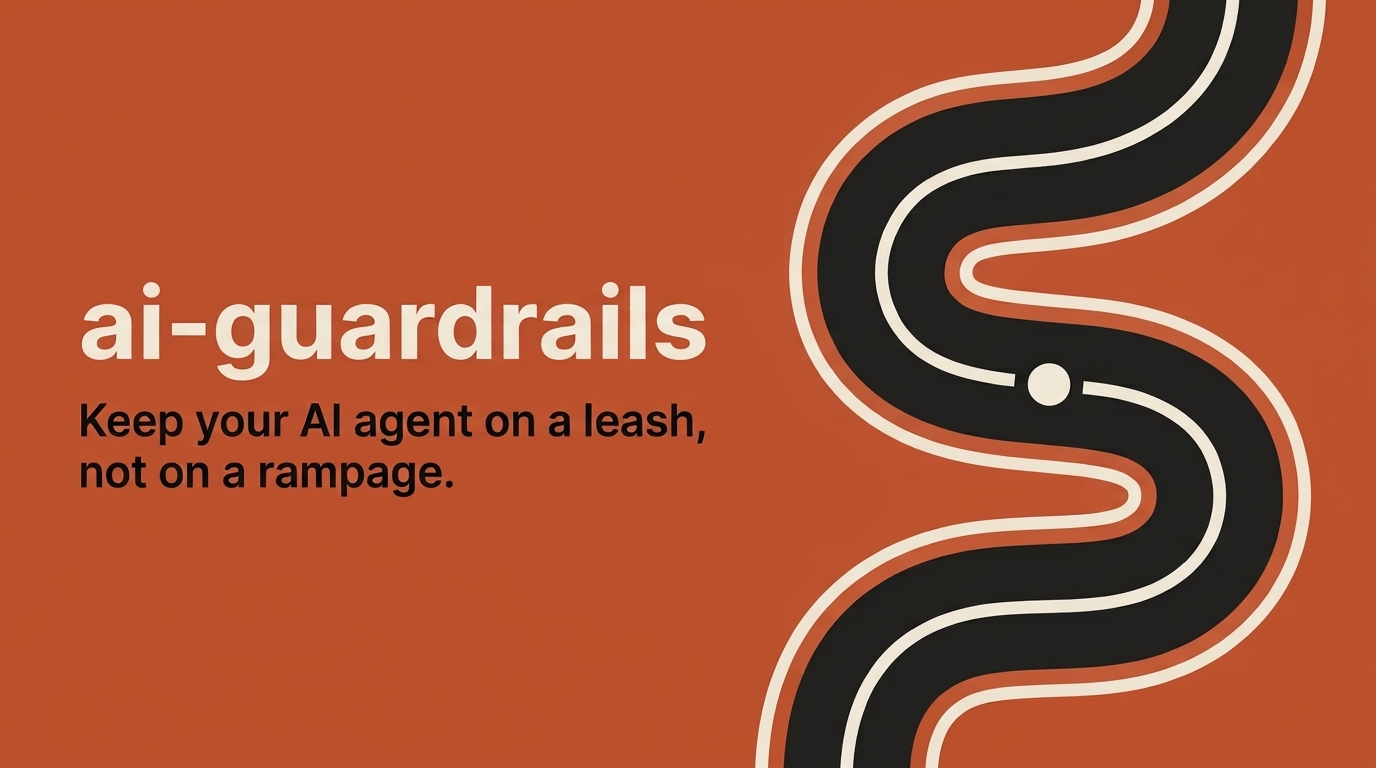
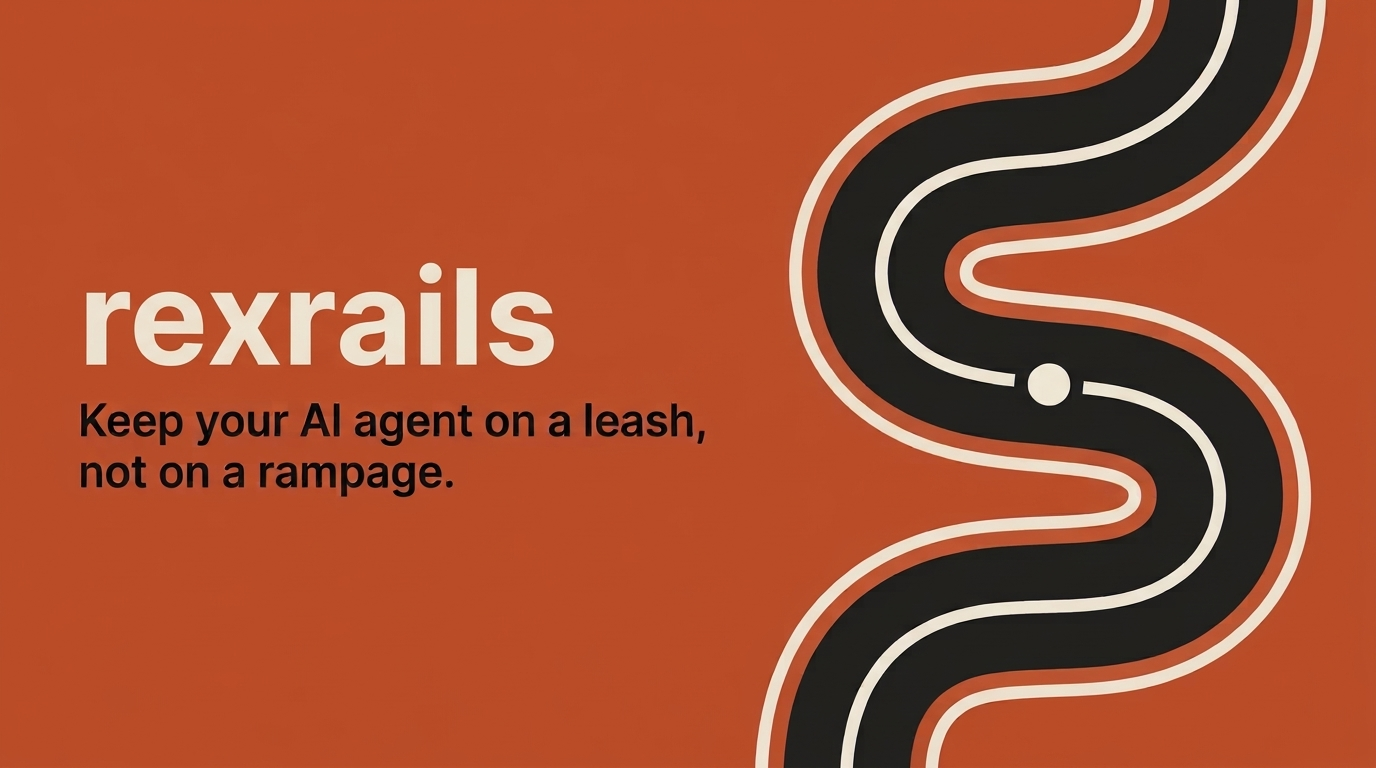
feat: rename plugin to rexrails
Unique name instead of the generic ai-guardrails. New banner with the new title.

Changed region(s): [[0.0625, 0.3438, 0.5312, 0.5]]

diff --git a/README.md b/README.md
@@ -1,8 +1,8 @@
 <div align="center">
 
-![ai-guardrails: keep your AI agent on a leash, not on a rampage](assets/banner.jpg)
+![rexrails: keep your AI agent on a leash, not on a rampage](assets/banner.jpg)
 
-# 🛡 ai-guardrails
+# 🛡 rexrails
 
 **Keep Claude Code on a leash, not on a rampage.**
 
@@ -15,7 +15,7 @@ make it ask with options instead of guessing, and warn you before a session burn
 [![platform](https://img.shields.io/badge/platform-windows%20%7C%20macos%20%7C%20linux-lightgrey)](#-install)
 
 ```text
-/plugin install ai-guardrails --marketplace bagusrexy27/ai-guardrails
+/plugin install rexrails --marketplace bagusrexy27/rexrails
 ```
 
 </div>
@@ -30,7 +30,7 @@ AI coding agents changed what is expensive. Writing code used to be the slow par
 - **Focus.** When building is cheap, there is always one more feature to add. The code is cheap to write, but every line still has to be maintained.
 - **Tokens.** Every message re-sends the whole conversation. A long session makes even a one-line question expensive, and on a subscription it eats your usage limit.
 
-ai-guardrails was born from one real working day on a Go backend refactor with Claude Code. Every rule in it answers something that actually went wrong that day. It turns those lessons into a few rules, two hooks, one skill, and an optional statusline segment.
+rexrails was born from one real working day on a Go backend refactor with Claude Code. Every rule in it answers something that actually went wrong that day. It turns those lessons into a few rules, two hooks, one skill, and an optional statusline segment.
 
 ## 🎯 The problems it solves
 
@@ -40,7 +40,7 @@ ai-guardrails was born from one real working day on a Go backend refactor with C
 
 **Real case.** The request was *"put it in git so I can install it on my other laptop."* The agent created a GitHub repository, committed, and pushed, all without being asked. Pushing and creating a repo are hard to undo and visible to others.
 
-**What ai-guardrails does.** *Ask before acting.* Reading and searching are free. Anything that changes something needs an explicit request for that exact action. "Put it in git" is not permission to push. Permission does not carry over to the next action. Real bugs are the one exception: they get fixed right away.
+**What rexrails does.** *Ask before acting.* Reading and searching are free. Anything that changes something needs an explicit request for that exact action. "Put it in git" is not permission to push. Permission does not carry over to the next action. Real bugs are the one exception: they get fixed right away.
 
 ### 2. 🎲 The agent decides things that are yours to decide
 
@@ -48,7 +48,7 @@ ai-guardrails was born from one real working day on a Go backend refactor with C
 
 **Real case.** While packaging this very plugin for publishing, the agent picked the MIT license on its own. It was a reasonable choice, but it was not the agent's choice to make.
 
-**What ai-guardrails does.** *Decisions as options.* Every decision comes as a question with 2-4 concrete options, the recommended one first. You click instead of typing, and you can still write your own answer. Each question stands on its own, so you never have to explain which question your answer belongs to.
+**What rexrails does.** *Decisions as options.* Every decision comes as a question with 2-4 concrete options, the recommended one first. You click instead of typing, and you can still write your own answer. Each question stands on its own, so you never have to explain which question your answer belongs to.
 
 ### 3. 🧱 Scope creep, because building is cheap
 
@@ -56,7 +56,7 @@ ai-guardrails was born from one real working day on a Go backend refactor with C
 
 **Real case.** A single request in a project management app bundled nine UI changes at once: cards, filters, popups, and more. None had been checked for real impact.
 
-**What ai-guardrails does.** *Feature gate.* Before writing code for a new feature, the agent answers four questions (real problem, significance, urgency, total complexity including maintenance) and places each item in a tier from A (do now) to D (park or drop). It shows the result and waits for your call. Big lists get split into small batches. New ideas mid-work go to a park list instead of into the code.
+**What rexrails does.** *Feature gate.* Before writing code for a new feature, the agent answers four questions (real problem, significance, urgency, total complexity including maintenance) and places each item in a tier from A (do now) to D (park or drop). It shows the result and waits for your call. Big lists get split into small batches. New ideas mid-work go to a park list instead of into the code.
 
 ### 4. 🔥 Long sessions burn tokens
 
@@ -64,7 +64,7 @@ ai-guardrails was born from one real working day on a Go backend refactor with C
 
 **Real case.** The session that produced this plugin grew past 230,000 tokens. Almost all of it was chat history, not code.
 
-**What ai-guardrails does.** The optional statusline shows the context size and your 5-hour quota, and turns yellow, then red, with concrete advice. The agent also warns you once about habits that waste tokens, like pasting whole logs or switching topics in a long session. `/save-decisions` writes what was decided to your docs, so `/clear` is safe.
+**What rexrails does.** The optional statusline shows the context size and your 5-hour quota, and turns yellow, then red, with concrete advice. The agent also warns you once about habits that waste tokens, like pasting whole logs or switching topics in a long session. `/save-decisions` writes what was decided to your docs, so `/clear` is safe.
 
 ### 5. 🔁 The agent re-reads your code every session
 
@@ -72,7 +72,7 @@ ai-guardrails was born from one real working day on a Go backend refactor with C
 
 **Real case.** In a backend with about seventy source files, every task started with the agent re-mapping the codebase. A short code map in `CLAUDE.md` removed that search.
 
-**What ai-guardrails does.** When you open a project that has no `CLAUDE.md`, the agent tells you once and offers to create one with a code map. It stays silent outside projects, so plain chat is not interrupted.
+**What rexrails does.** When you open a project that has no `CLAUDE.md`, the agent tells you once and offers to create one with a code map. It stays silent outside projects, so plain chat is not interrupted.
 
 ## 💼 Use cases
 
@@ -101,7 +101,7 @@ ai-guardrails was born from one real working day on a Go backend refactor with C
 **You:** "Put this in git so I can install it on my other laptop."
 
 <table>
-<tr><th>❌ Without</th><th>✅ With ai-guardrails</th></tr>
+<tr><th>❌ Without</th><th>✅ With rexrails</th></tr>
 <tr>
 <td>
 
@@ -162,19 +162,19 @@ Needs **Node.js 18+** on your PATH, because the hooks are small Node scripts. Wo
 In Claude Code (2.1.275 or later):
 
 ```text
-/plugin install ai-guardrails --marketplace bagusrexy27/ai-guardrails
+/plugin install rexrails --marketplace bagusrexy27/rexrails
 ```
 
 On older versions, send these as two separate prompts:
 
 ```text
-/plugin marketplace add bagusrexy27/ai-guardrails
+/plugin marketplace add bagusrexy27/rexrails
 ```
 ```text
-/plugin install ai-guardrails@ai-guardrails
+/plugin install rexrails@rexrails
 ```
 
-Then start a new session. You will see `AI-GUARDRAILS ACTIVE` in the session context. The plugin installs for your user, so it works in every project. Pick the project scope during install if you want it only for one repo and your team.
+Then start a new session. You will see `REXRAILS ACTIVE` in the session context. The plugin installs for your user, so it works in every project. Pick the project scope during install if you want it only for one repo and your team.
 
 <details>
 <summary><b>📊 Optional: context warning in the statusline</b></summary>
@@ -182,7 +182,7 @@ Then start a new session. You will see `AI-GUARDRAILS ACTIVE` in the session con
 Plugins cannot change your statusline, so this part is a manual step. Download the script once:
 
 ```sh
-curl -o ~/.claude/context-status.mjs https://raw.githubusercontent.com/bagusrexy27/ai-guardrails/main/hooks/context-status.mjs
+curl -o ~/.claude/context-status.mjs https://raw.githubusercontent.com/bagusrexy27/rexrails/main/hooks/context-status.mjs
 ```
 
 Then set the statusline in `~/.claude/settings.json`. If you have no statusline yet:
@@ -200,7 +200,7 @@ If you already have one, put the segment in front of it: `node ~/.claude/context
 From your terminal:
 
 ```sh
-claude plugin update ai-guardrails@ai-guardrails
+claude plugin update rexrails@rexrails
 ```
 
 Rules, hooks, and the skill update with the plugin. If you use the statusline segment, run the `curl` command again.
@@ -209,7 +209,7 @@ Rules, hooks, and the skill update with the plugin. If you use the statusline se
 <summary><b>🗑 Uninstall</b></summary>
 
 ```text
-/plugin uninstall ai-guardrails@ai-guardrails
+/plugin uninstall rexrails@rexrails
 ```
 
 If you set up the statusline segment, also remove `node ~/.claude/context-status.mjs` from `statusLine.command` and delete `~/.claude/context-status.mjs`.
